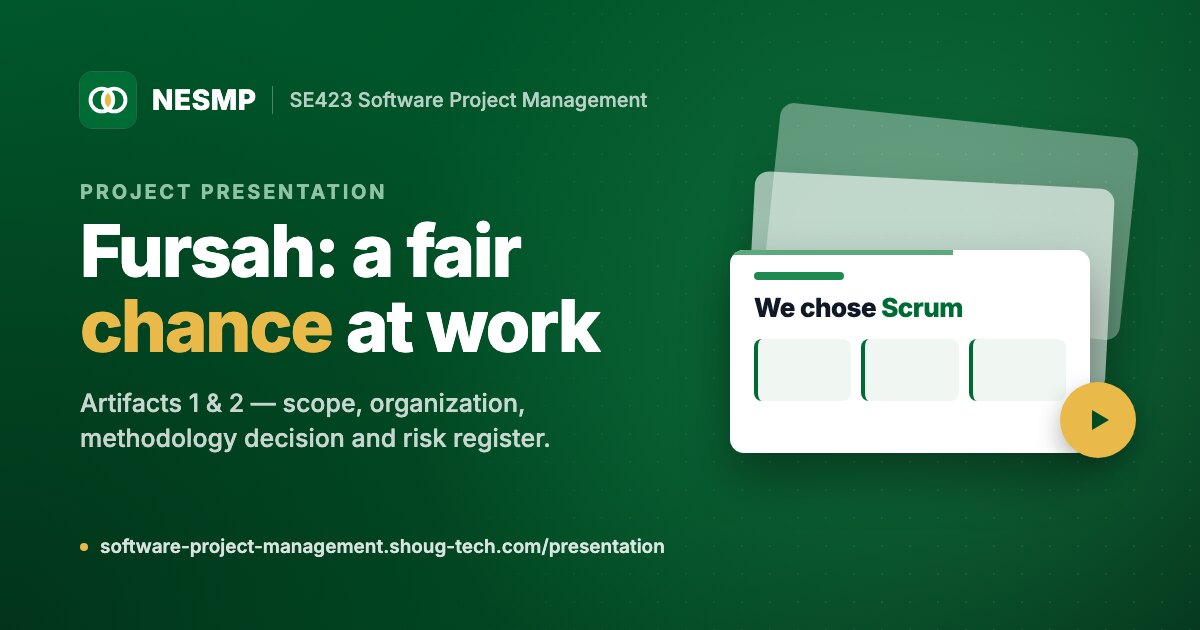
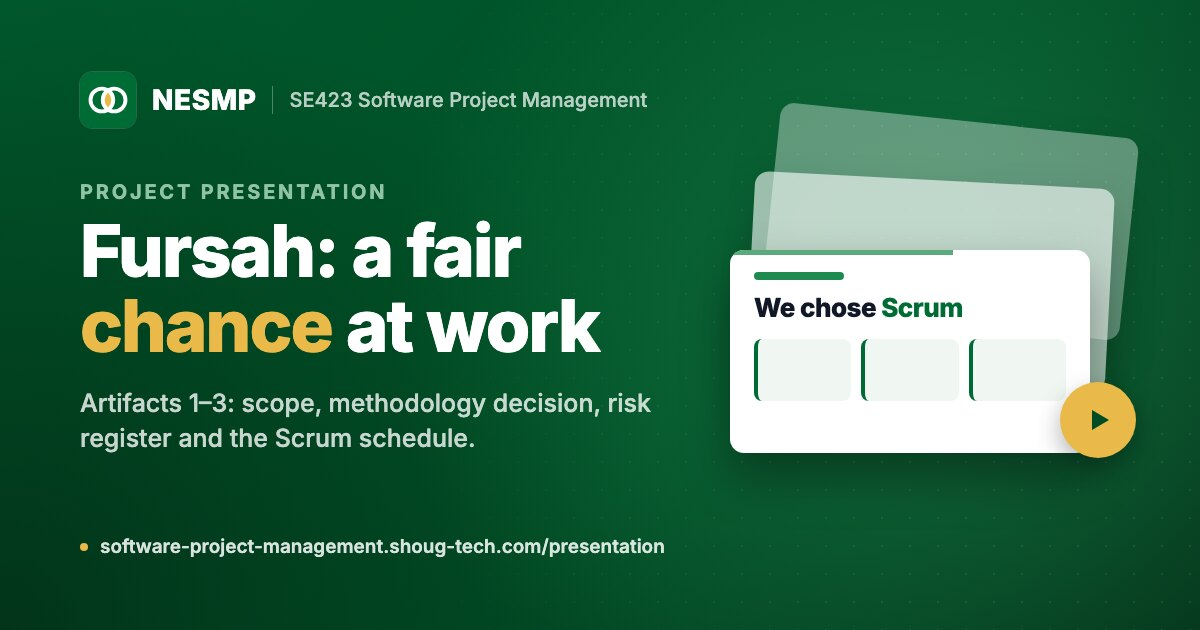
refactor: update presentation details and enhance document link on Home page

Changed region(s): [[0.0617, 0.6032, 0.555, 0.7238]]

diff --git a/presentation.html b/presentation.html
@@ -4,7 +4,7 @@
     <meta charset="utf-8" />
     <meta name="viewport" content="width=device-width, initial-scale=1, viewport-fit=cover" />
     <title>Fursah Presentation</title>
-    <meta name="description" content="SE423 project presentation of Fursah, the National Employment &amp; Skill Matching Platform: scope, organization, methodology decision and risk register (Artifacts 1 and 2)." />
+    <meta name="description" content="SE423 project presentation of Fursah, the National Employment &amp; Skill Matching Platform: scope, methodology decision, risk register and the Scrum schedule (Artifacts 1 to 3)." />
     <meta name="theme-color" content="#004D25" />
     <link rel="canonical" href="https://software-project-management.shoug-tech.com/presentation" />
     <link rel="icon" type="image/svg+xml" href="/favicon.svg" />
@@ -16,7 +16,7 @@
     <meta property="og:site_name" content="NESMP" />
     <meta property="og:url" content="https://software-project-management.shoug-tech.com/presentation" />
     <meta property="og:title" content="Fursah: Project Presentation" />
-    <meta property="og:description" content="SE423 · National Employment &amp; Skill Matching Platform. Artifacts 1 &amp; 2: scope, organization, methodology decision and risk register." />
+    <meta property="og:description" content="SE423 · National Employment &amp; Skill Matching Platform. Artifacts 1–3: scope, methodology decision, risk register and the Scrum schedule." />
     <meta property="og:image" content="https://software-project-management.shoug-tech.com/og-presentation.jpg" />
     <meta property="og:image:secure_url" content="https://software-project-management.shoug-tech.com/og-presentation.jpg" />
     <meta property="og:image:type" content="image/jpeg" />
@@ -25,7 +25,7 @@
     <meta property="og:image:alt" content="Fursah project presentation: a fair chance at work" />
     <meta name="twitter:card" content="summary_large_image" />
     <meta name="twitter:title" content="Fursah: Project Presentation" />
-    <meta name="twitter:description" content="SE423 · National Employment &amp; Skill Matching Platform. Artifacts 1 &amp; 2: scope, organization, methodology decision and risk register." />
+    <meta name="twitter:description" content="SE423 · National Employment &amp; Skill Matching Platform. Artifacts 1–3: scope, methodology decision, risk register and the Scrum schedule." />
     <meta name="twitter:image" content="https://software-project-management.shoug-tech.com/og-presentation.jpg" />
     <meta name="twitter:image:alt" content="Fursah project presentation: a fair chance at work" />
     <link rel="preconnect" href="https://fonts.googleapis.com" />
@@ -47,7 +47,7 @@
        * Slide deck for the SE423 project.
        *
        * Every slide is a <section class="slide"> drawn on a fixed 1280×720 stage
-       * that scales to fit the window. To add Artifact 3, copy an artifact divider
+       * that scales to fit the window. To add an artifact, copy an artifact divider
        * slide and the content slides after it, then update the agenda slide.
        *
        * Short version: slides with the data-short attribute. Switch with the
@@ -164,7 +164,7 @@
       @keyframes pop { 0% { opacity: 0; transform: scale(0.3); } 70% { opacity: 1; transform: scale(1.15); } 100% { opacity: 1; transform: scale(1); } }
       @keyframes fadeIn { from { opacity: 0; } to { opacity: 1; } }
       @keyframes growY { from { opacity: 1; transform: scaleY(0); } to { opacity: 1; transform: scaleY(1); } }
-      @keyframes slideIn { from { opacity: 0; transform: translateX(-60px); } to { opacity: 0.12; transform: none; } }
+      @keyframes slideIn { from { opacity: 0; transform: translateX(-60px); } to { opacity: 1; transform: none; } }
       @keyframes glow { 0%, 100% { box-shadow: 0 0 0 0 rgba(0, 108, 53, 0); } 50% { box-shadow: 0 0 0 10px rgba(0, 108, 53, 0.14); } }
       @keyframes sweep { from { background-size: 0% 100%; } to { background-size: 100% 100%; } }
       @keyframes drift { 0%, 100% { background-position: 0% 0%, 0 0; } 50% { background-position: 100% 60%, 0 0; } }
@@ -195,7 +195,7 @@
         .slide, .slide.past { transition: opacity 0.2s; transform: none; }
         .slide .anim { opacity: 1; }
         .slide.active .anim, .slide.active .highlight, .slide.dark.active { animation: none !important; }
-        .slide.active .divider-num.anim { opacity: 0.12; }
+        .slide.active .divider-num.anim { opacity: 1; }
         .highlight { background-size: 100% 100%; }
       }
 
@@ -337,6 +337,23 @@
       .con::before { content: "−"; color: var(--rose); }
       .chosen { outline: 3px solid var(--green); outline-offset: -1px; background: var(--green-soft); border-color: var(--green-line); }
 
+      /* Sprint load chart. Bar height = points / 28 of the plot; the band marks the 20–25 SP capacity. */
+      .chart { position: relative; display: flex; align-items: flex-end; gap: 14px; height: 300px; border-bottom: 2px solid var(--line); }
+      .chart .band {
+        position: absolute; left: 0; right: 0;
+        bottom: calc(20 / 28 * 100%); height: calc(5 / 28 * 100%);
+        background: var(--green-soft); border-block: 1.5px dashed var(--green-line);
+      }
+      .chart .band b { position: absolute; right: 0; top: -22px; font-size: 13px; color: var(--muted); font-weight: 600; }
+      .chart .col { position: relative; flex: 1; height: calc(var(--sp) / 28 * 100%); }
+      .chart .sbar { position: absolute; inset: 0; border-radius: 6px 6px 0 0; background: var(--bar); }
+      .chart .col span { position: absolute; left: 0; right: 0; top: -24px; text-align: center; font-size: 15px; font-weight: 800; color: var(--ink); }
+      .chart-x { display: flex; gap: 14px; margin-top: 8px; }
+      .chart-x span { flex: 1; text-align: center; font-size: 14px; font-weight: 600; color: var(--muted); }
+      .slide.active .sbar.anim { animation-name: growY; transform-origin: bottom; animation-duration: 0.7s; }
+      .key { display: inline-block; width: 14px; height: 14px; border-radius: 3px; vertical-align: -1px; margin-right: 8px; }
+      .wbs-id { font-size: 14px; font-weight: 800; color: var(--green); letter-spacing: 0.04em; }
+
       /* Risk matrix */
       .rm { display: grid; grid-template-columns: 110px repeat(5, 1fr); grid-template-rows: repeat(5, 1fr) 30px; gap: 5px; height: 100%; }
       .rm .ylab { font-size: 13px; font-weight: 600; color: var(--muted); display: flex; align-items: center; justify-content: flex-end; padding-right: 8px; text-align: right; }
@@ -387,7 +404,7 @@
         .short-mode .slide:not([data-short]) { display: none; }
         .slide, .slide * { animation: none !important; }
         .slide .anim { opacity: 1; }
-        .slide .divider-num.anim { opacity: 0.12; }
+        .slide .divider-num.anim { opacity: 1; }
         .highlight { background-size: 100% 100%; }
         @page { size: 1280px 720px; margin: 0; }
       }
@@ -433,10 +450,10 @@
               <h3 style="margin-top: 12px">Methodology, Risks &amp; Decision</h3>
               <p class="muted">Scrum, XP, Waterfall and Incremental compared; risk register; final choice.</p>
             </div>
-            <div class="card" style="border-style: dashed">
-              <span class="tag grey">Artifact 3 · Coming soon</span>
-              <h3 style="margin-top: 12px; color: var(--muted)">Estimation &amp; Scheduling</h3>
-              <p class="muted">WBS, estimates and the delivery schedule.</p>
+            <div class="card accent">
+              <span class="tag">Artifact 3</span>
+              <h3 style="margin-top: 12px">Estimation &amp; Scheduling</h3>
+              <p class="muted">WBS, product backlog, story points, sprint schedule and the Sprint 1 plan.</p>
             </div>
             <div class="card" style="border-style: dashed">
               <span class="tag grey">Artifact 4 · Later</span>
@@ -737,14 +754,185 @@
           <p class="small muted" style="margin-top: 18px">Full register, including XP, Waterfall and Incremental risks, is on the project website.</p>
         </section>
 
-        <!-- ============ Artifact 3: add slides here ============ -->
+        <!-- ============ Artifact 3 ============ -->
+        <section class="slide dark" data-label="Artifact 3">
+          <div class="grow" style="display: flex; flex-direction: column; justify-content: center">
+            <div class="divider-num">03</div>
+            <p class="eyebrow" style="margin-top: 16px">Artifact 3</p>
+            <h1>Estimation &amp;<br />Scheduling</h1>
+          </div>
+        </section>
+
+        <section class="slide" data-label="Artifact 3 · WBS">
+          <p class="eyebrow">Work Breakdown Structure</p>
+          <h2>A hybrid WBS with seven phases</h2>
+          <div class="grid g4 grow" style="align-content: start">
+            <div class="card" style="background: var(--green); border-color: var(--green)"><h3 style="color: #fff">Fursah Platform</h3><p style="color: #e6f0ea">The whole project, from first plan to final scope check.</p></div>
+            <div class="card"><span class="wbs-id">1.1</span><h3>Project Planning</h3><p class="small">Objectives, scope, team, schedule, resources and initial risks.</p></div>
+            <div class="card"><span class="wbs-id">1.2</span><h3>Requirement Analysis</h3><p class="small">Portals, matching engine, guidance, analytics, security and language needs.</p></div>
+            <div class="card"><span class="wbs-id">1.3</span><h3>System Design</h3><p class="small">Architecture, data structure, interfaces and the NLP workflow.</p></div>
+            <div class="card"><span class="wbs-id">1.4</span><h3>System Development</h3><p class="small">Build the portals, matching engine, guidance, analytics and networking.</p></div>
+            <div class="card"><span class="wbs-id">1.5</span><h3>System Testing</h3><p class="small">Module, matching, security, performance, usability and language tests.</p></div>
+            <div class="card"><span class="wbs-id">1.6</span><h3>Integration &amp; Delivery</h3><p class="small">Connect modules and authorized government services; prepare deployment.</p></div>
+            <div class="card"><span class="wbs-id">1.7</span><h3>Scope Review</h3><p class="small">Confirm agreed scope and acceptance criteria were met.</p></div>
+          </div>
+        </section>
+
+        <section class="slide" data-label="Artifact 3 · Product Backlog" data-short>
+          <p class="eyebrow">Product Backlog</p>
+          <h2>The scope, broken down and estimated</h2>
+          <div class="grid g4">
+            <div><div class="stat">52</div><p class="small muted" style="margin-top: 6px">Backlog items: 49 user stories and 3 research spikes</p></div>
+            <div><div class="stat">236</div><p class="small muted" style="margin-top: 6px">Story points in total</p></div>
+            <div><div class="stat">11</div><p class="small muted" style="margin-top: 6px">Two-week sprints, plus Sprint 0, across 3 releases</p></div>
+            <div><div class="stat">20–25</div><p class="small muted" style="margin-top: 6px">Story points of planned capacity per sprint</p></div>
+          </div>
+          <div class="grid g2" style="margin-top: 32px">
+            <div class="card accent">
+              <h3>Story point scale</h3>
+              <p class="small"><strong>1</strong> very small · <strong>2</strong> small and clear · <strong>3</strong> needs some design and testing · <strong>5</strong> several parts or connections · <strong>8</strong> very large, complex or uncertain</p>
+            </div>
+            <div class="card accent">
+              <h3>Priority levels</h3>
+              <p class="small"><strong>High</strong> required for the main job-search and hiring process · <strong>Medium</strong> improves the experience · <strong>Low</strong> can wait until the main features are delivered</p>
+            </div>
+          </div>
+        </section>
+
+        <section class="slide" data-label="Artifact 3 · Sprint Load" data-short>
+          <p class="eyebrow">Backlog by Sprint</p>
+          <h2>Every sprint fits capacity, and Sprint 6 is light on purpose</h2>
+          <div class="chart" role="img" aria-label="Story points per sprint: Sprints 1 to 3 have 22 each, Sprint 4 has 24, Sprint 5 has 23, Sprint 6 has 13, Sprint 7 has 23, Sprint 8 has 24, and Sprints 9 to 11 have 21 each. All except Sprint 6 sit in the 20 to 25 point capacity band.">
+            <div class="band"><b>Capacity 20–25 SP</b></div>
+              <div class="col" style="--sp: 22; --bar: var(--green)"><span>22</span><div class="sbar"></div></div>
+              <div class="col" style="--sp: 22; --bar: var(--green)"><span>22</span><div class="sbar"></div></div>
+              <div class="col" style="--sp: 22; --bar: var(--green)"><span>22</span><div class="sbar"></div></div>
+              <div class="col" style="--sp: 24; --bar: var(--green)"><span>24</span><div class="sbar"></div></div>
+              <div class="col" style="--sp: 23; --bar: var(--green)"><span>23</span><div class="sbar"></div></div>
+              <div class="col" style="--sp: 13; --bar: var(--green)"><span>13</span><div class="sbar"></div></div>
+              <div class="col" style="--sp: 23; --bar: var(--amber)"><span>23</span><div class="sbar"></div></div>
+              <div class="col" style="--sp: 24; --bar: var(--amber)"><span>24</span><div class="sbar"></div></div>
+              <div class="col" style="--sp: 21; --bar: var(--amber)"><span>21</span><div class="sbar"></div></div>
+              <div class="col" style="--sp: 21; --bar: var(--blue)"><span>21</span><div class="sbar"></div></div>
+              <div class="col" style="--sp: 21; --bar: var(--blue)"><span>21</span><div class="sbar"></div></div>
+          </div>
+          <div class="chart-x" aria-hidden="true"><span>S1</span><span>S2</span><span>S3</span><span>S4</span><span>S5</span><span>S6</span><span>S7</span><span>S8</span><span>S9</span><span>S10</span><span>S11</span></div>
+          <div class="grid g3" style="margin-top: 16px">
+            <p class="small"><i class="key" style="background: var(--green)"></i><strong>Release 1</strong> · Sprints 1–6 · 126 SP<br /><span class="muted">Core platform and matching</span></p>
+            <p class="small"><i class="key" style="background: var(--amber)"></i><strong>Release 2</strong> · Sprints 7–9 · 68 SP<br /><span class="muted">Guidance, analytics, networking</span></p>
+            <p class="small"><i class="key" style="background: var(--blue)"></i><strong>Release 3</strong> · Sprints 10–11 · 42 SP<br /><span class="muted">Government integration, rollout</span></p>
+          </div>
+        </section>
+
+        <section class="slide" data-label="Artifact 3 · Release 1 Schedule">
+          <p class="eyebrow">Release 1 Schedule</p>
+          <h2>Fourteen weeks, from preparation to final review</h2>
+          <table>
+            <thead><tr><th>Sprint</th><th>Weeks</th><th>Theme</th><th>Main work</th></tr></thead>
+            <tbody>
+              <tr><td>Sprint 0</td><td>1–2</td><td>Preparation</td><td>Development environment and initial Product Backlog</td></tr>
+              <tr><td>Sprint 1</td><td>3–4</td><td>Platform Foundation</td><td>Registration, login, roles, profiles, Saudi hosting</td></tr>
+              <tr><td>Sprint 2</td><td>5–6</td><td>Job Postings &amp; Search</td><td>Manage postings; search jobs; upload resumes</td></tr>
+              <tr><td>Sprint 3</td><td>7–8</td><td>Applications &amp; Hiring</td><td>Apply and track; review applicants; schedule interviews</td></tr>
+              <tr><td>Sprint 4</td><td>9–10</td><td>Resume &amp; Job Analysis</td><td>NLP spike, then resume and job description analysis</td></tr>
+              <tr><td>Sprint 5</td><td>11–12</td><td>Recommendations</td><td>Match scores, suggestions, screening, Arabic and English</td></tr>
+              <tr><td>Sprint 6</td><td>13–14</td><td>Security &amp; Final Review</td><td>Secure storage, admin tools, logging, full testing</td></tr>
+            </tbody>
+          </table>
+          <p class="small muted" style="margin-top: 14px">Releases 2 and 3 (Sprints 7–11) stay high level, and are detailed as they approach using Release 1 feedback.</p>
+        </section>
+
+        <section class="slide" data-label="Artifact 3 · Scrum Process">
+          <p class="eyebrow">Scrum Process</p>
+          <h2>The meetings that keep each sprint on track</h2>
+          <table>
+            <thead><tr><th>Meeting</th><th>When</th><th>Length</th><th>Purpose</th></tr></thead>
+            <tbody>
+              <tr><td>Sprint Planning</td><td>Start of each sprint</td><td>Up to 4 hours</td><td>Set the sprint goal and select the stories</td></tr>
+              <tr><td>Daily Scrum</td><td>Each working day</td><td>15 minutes</td><td>Share progress, plan the day, raise problems</td></tr>
+              <tr><td>Sprint Review</td><td>End of each sprint</td><td>Up to 2 hours</td><td>Show features to employers, job seekers and HRSD</td></tr>
+              <tr><td>Retrospective</td><td>After the review</td><td>Up to 1.5 hours</td><td>Agree improvements for the next sprint</td></tr>
+              <tr><td>Backlog Refinement</td><td>Once each sprint</td><td>1–2 hours</td><td>Review, split and estimate upcoming stories</td></tr>
+            </tbody>
+          </table>
+          <p class="small" style="margin-top: 20px"><strong>Also in the plan:</strong> Sprint 0 for preparation, epics to group stories, timeboxed research spikes (SP-01 to SP-03) and a shared Definition of Done.</p>
+        </section>
+
+        <section class="slide" data-label="Artifact 3 · Velocity &amp; Estimation">
+          <p class="eyebrow">Velocity &amp; Estimation</p>
+          <h2>From Planning Poker to a first forecast</h2>
+          <div class="grid g3 grow" style="align-content: start">
+            <div class="card accent">
+              <h3>Planning Poker</h3>
+              <p>Team members pick an estimate independently, reveal together, and discuss differences. Scale: 1, 2, 3, 5, 8.</p>
+              <p class="small muted" style="margin-top: 10px">Points measure relative effort, complexity and uncertainty, not hours.</p>
+            </div>
+            <div class="card accent">
+              <h3>Reference stories</h3>
+              <p><strong>3 SP</strong> · US-01 register as a job seeker or employer</p>
+              <p style="margin-top: 8px"><strong>5 SP</strong> · US-03 job seeker profile</p>
+              <p style="margin-top: 8px"><strong>8 SP</strong> · US-19 analyze a resume, skills and experience</p>
+            </div>
+            <div class="card accent">
+              <h3>Forecast</h3>
+              <p>(20 + 25) ÷ 2 = 22.5, so about <strong>22–23 SP per sprint</strong>.</p>
+              <p class="small muted" style="margin-top: 10px">This is a starting estimate, not measured velocity. It’s updated from actual results, and only stories meeting the Definition of Done count.</p>
+            </div>
+          </div>
+        </section>
+
+        <section class="slide" data-label="Artifact 3 · Sprint 1" data-short>
+          <p class="eyebrow">Sprint 1 · Weeks 3–4 · 22 of 20–25 SP capacity</p>
+          <h2>A secure foundation for everything after it</h2>
+          <div class="grid g2 grow" style="grid-template-columns: 1fr 1.25fr; align-items: start">
+            <div style="display: flex; flex-direction: column; gap: 16px">
+              <div class="card accent">
+                <h3>Sprint goal</h3>
+                <p>Let job seekers and employers register, access their accounts and create profiles, with correct role permissions and data hosted in Saudi Arabia.</p>
+              </div>
+              <div class="card">
+                <h3>Definition of Done</h3>
+                <p>Reviewed by another developer, required tests pass, acceptance criteria met, approved by the Product Owner.</p>
+              </div>
+            </div>
+            <table>
+              <thead><tr><th>Story</th><th>What it delivers</th><th>SP</th></tr></thead>
+              <tbody>
+                <tr><td>US-01</td><td>Register as a job seeker or employer</td><td>3</td></tr>
+                <tr><td>US-02</td><td>Secure login and logout</td><td>3</td></tr>
+                <tr><td>US-03</td><td>Job seeker profile</td><td>5</td></tr>
+                <tr><td>US-04</td><td>Employer profile</td><td>5</td></tr>
+                <tr><td>US-05</td><td>Role-based access permissions</td><td>3</td></tr>
+                <tr><td>US-06</td><td>Hosting within Saudi Arabia</td><td>3</td></tr>
+              </tbody>
+            </table>
+          </div>
+        </section>
+
+        <section class="slide" data-label="Artifact 3 · Changes">
+          <p class="eyebrow">Changes to Previous Artifacts</p>
+          <h2>How the plan sharpened earlier decisions</h2>
+          <table>
+            <thead><tr><th>Area</th><th>Before</th><th>Now</th></tr></thead>
+            <tbody>
+              <tr><td>Scope</td><td>Broad feature lists</td><td>52-item backlog totaling 236 story points</td></tr>
+              <tr><td>Roadmap</td><td>Static three-phase rollout</td><td>Sprint 0 plus 11 sprints across 3 releases</td></tr>
+              <tr><td>Technical risks</td><td>Treated as standard deliverables</td><td>Timeboxed research spikes before development</td></tr>
+              <tr><td>Quality</td><td>End-of-phase acceptance</td><td>Lighter Sprint 6 for testing and review</td></tr>
+              <tr><td>Bilingual support</td><td>Listed under National Rollout</td><td>Moved to Release 1 (Sprint 5) to avoid rework</td></tr>
+            </tbody>
+          </table>
+          <p class="small" style="margin-top: 20px"><strong>Artifact 2:</strong> the Scrum decision stands. Artifact 3 turns it into a detailed implementation and scheduling plan.</p>
+        </section>
+
+        <!-- ============ Artifact 4: add slides here ============ -->
 
         <!-- ============ Close ============ -->
         <section class="slide dark" data-label="Thank you" data-short>
           <div class="grow" style="display: flex; flex-direction: column; justify-content: center">
-            <p class="eyebrow">Next up · Artifact 3</p>
+            <p class="eyebrow">Next up · Artifact 4</p>
             <h1 style="font-size: 84px">Thank you</h1>
-            <p class="lead" style="margin-top: 16px">Questions? Next, we’ll estimate and schedule the Scrum delivery of Fursah.</p>
+            <p class="lead" style="margin-top: 16px">Questions? Next, we’ll plan stakeholder management, communication and project metrics.</p>
           </div>
           <p class="small" style="color: #8fc3a4">software-project-management.shoug-tech.com</p>
         </section>
@@ -836,7 +1024,7 @@
         var reduceMotion = window.matchMedia('(prefers-reduced-motion: reduce)').matches;
 
         // Tag each slide's content for staggered entrance, in reading order.
-        var ANIM = '.eyebrow, h1, h2, .lead, .divider-num, .members li, .slide > p, .grow > p, .grid > *, .org > *, tbody tr, .legend p';
+        var ANIM = '.eyebrow, h1, h2, .lead, .divider-num, .members li, .slide > p, .grow > p, .grid > *, .org > *, tbody tr, .legend p, .sbar';
         slides.forEach(function (s) {
           var i = 0;
           s.querySelectorAll(ANIM).forEach(function (el) {

diff --git a/src/pages/Home.jsx b/src/pages/Home.jsx
@@ -229,11 +229,12 @@ export default function Home() {
                 <Link to="/methodology-risk" className="btn-secondary px-8 py-4">
                   Read the Proposal
                 </Link>
-                <Link to="/documents" className="btn-secondary px-8 py-4">
-                  <FilePdf size={18} />
-                  View the PDFs
-                </Link>
               </div>
+              <Link to="/documents" className="mt-6 inline-flex items-center gap-2 font-medium text-saudi hover:underline">
+                <FilePdf size={20} />
+                View or download the project documents
+                <ArrowRight size={14} />
+              </Link>
             </div>
 
             <div

diff --git a/brand/og-presentation.html b/brand/og-presentation.html
@@ -68,7 +68,7 @@
     </div>
     <div class="kicker">Project Presentation</div>
     <h1>Fursah: a fair <span>chance</span> at work</h1>
-    <p>Artifacts 1 &amp; 2 — scope, organization, methodology decision and risk register.</p>
+    <p>Artifacts 1–3: scope, methodology decision, risk register and the Scrum schedule.</p>
     <div class="footer"><span class="dot"></span>software-project-management.shoug-tech.com/presentation</div>
   </div>
 

diff --git a/README.md b/README.md
@@ -17,7 +17,7 @@ This repository contains the project website: a static React + Vite site deploye
 | `/stakeholders-metrics` | Stakeholders, Communication & Metrics (Artifact 04) |
 | `/team` | Team |
 | `/documents` | Project Documents: view or download every submitted artifact |
-| `/presentation` | Slide deck (standalone `presentation.html`; add Artifact 3 slides at the `Artifact 3: add slides here` marker). The **Short version** button or <kbd>S</kbd> switches to the slides marked `data-short`; `/presentation?short` opens that version directly. **Dark mode** or <kbd>D</kbd> switches theme, sharing the site's saved setting. **Export PDF** opens the print dialog for the version and theme on screen; choose **Save as PDF**. Share banner: `public/og-presentation.jpg`, made from `brand/og-presentation.html` |
+| `/presentation` | Slide deck (standalone `presentation.html`; add Artifact 4 slides at the `Artifact 4: add slides here` marker). The **Short version** button or <kbd>S</kbd> switches to the slides marked `data-short`; `/presentation?short` opens that version directly. **Dark mode** or <kbd>D</kbd> switches theme, sharing the site's saved setting. **Export PDF** opens the print dialog for the version and theme on screen; choose **Save as PDF**. Share banner: `public/og-presentation.jpg`, made from `brand/og-presentation.html` |
 
 ## Tech stack
 
